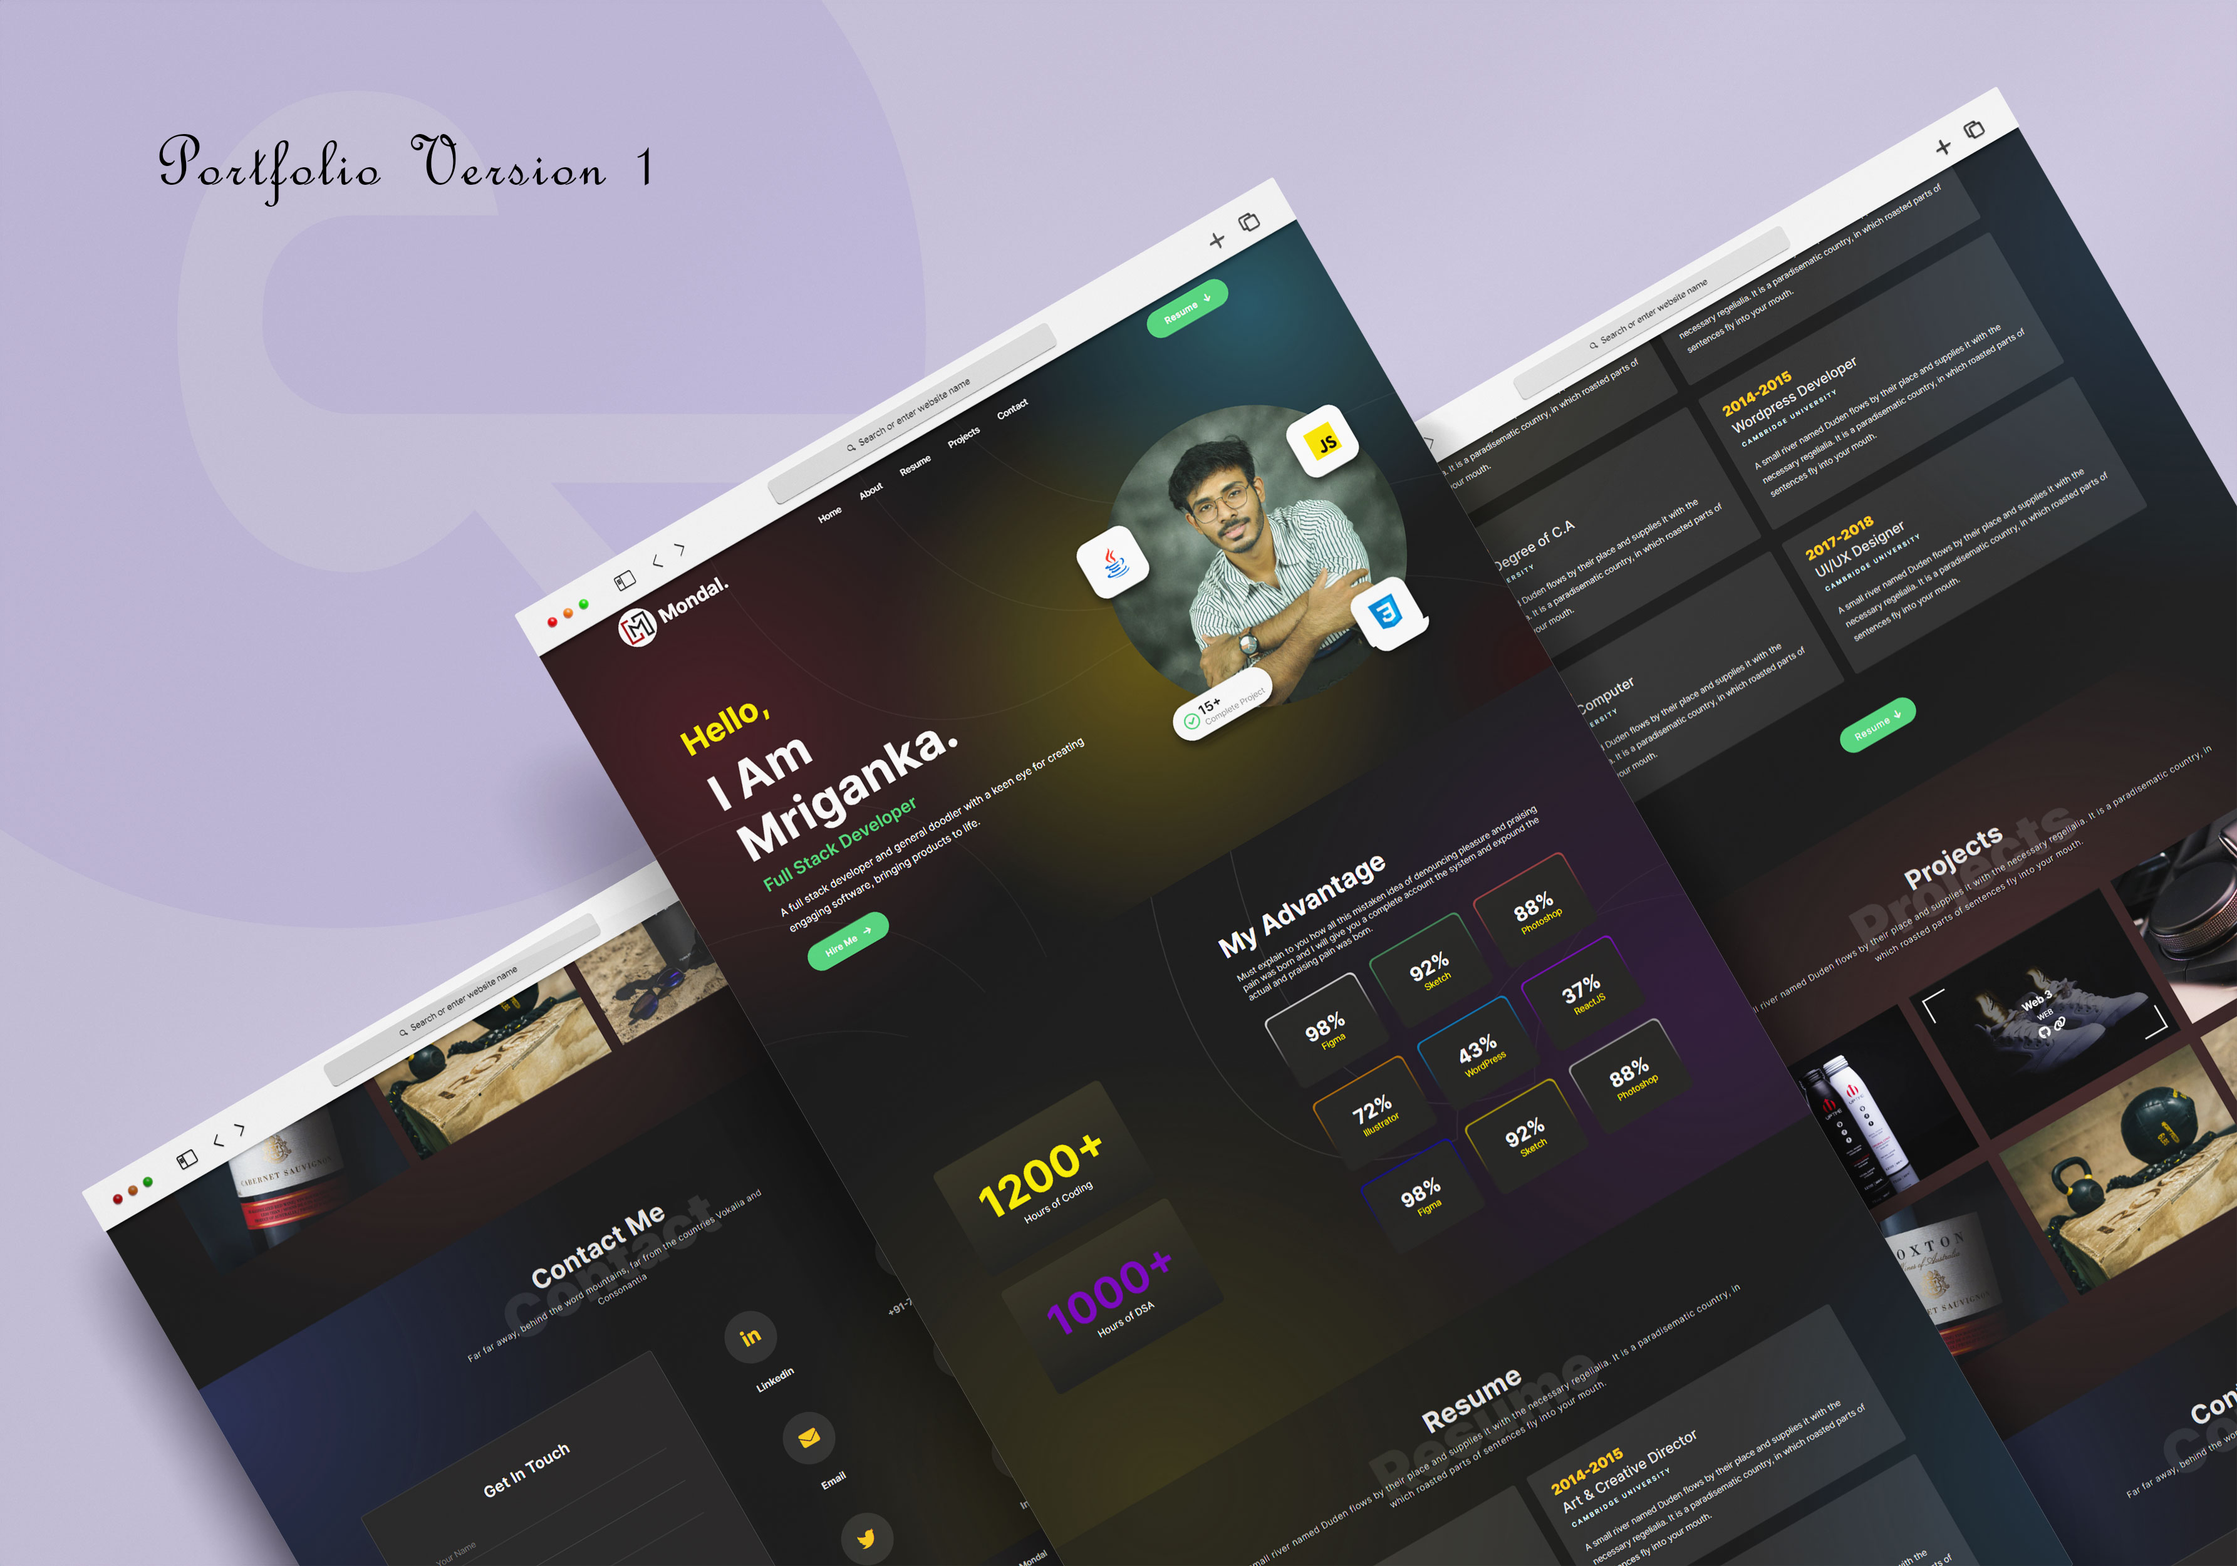
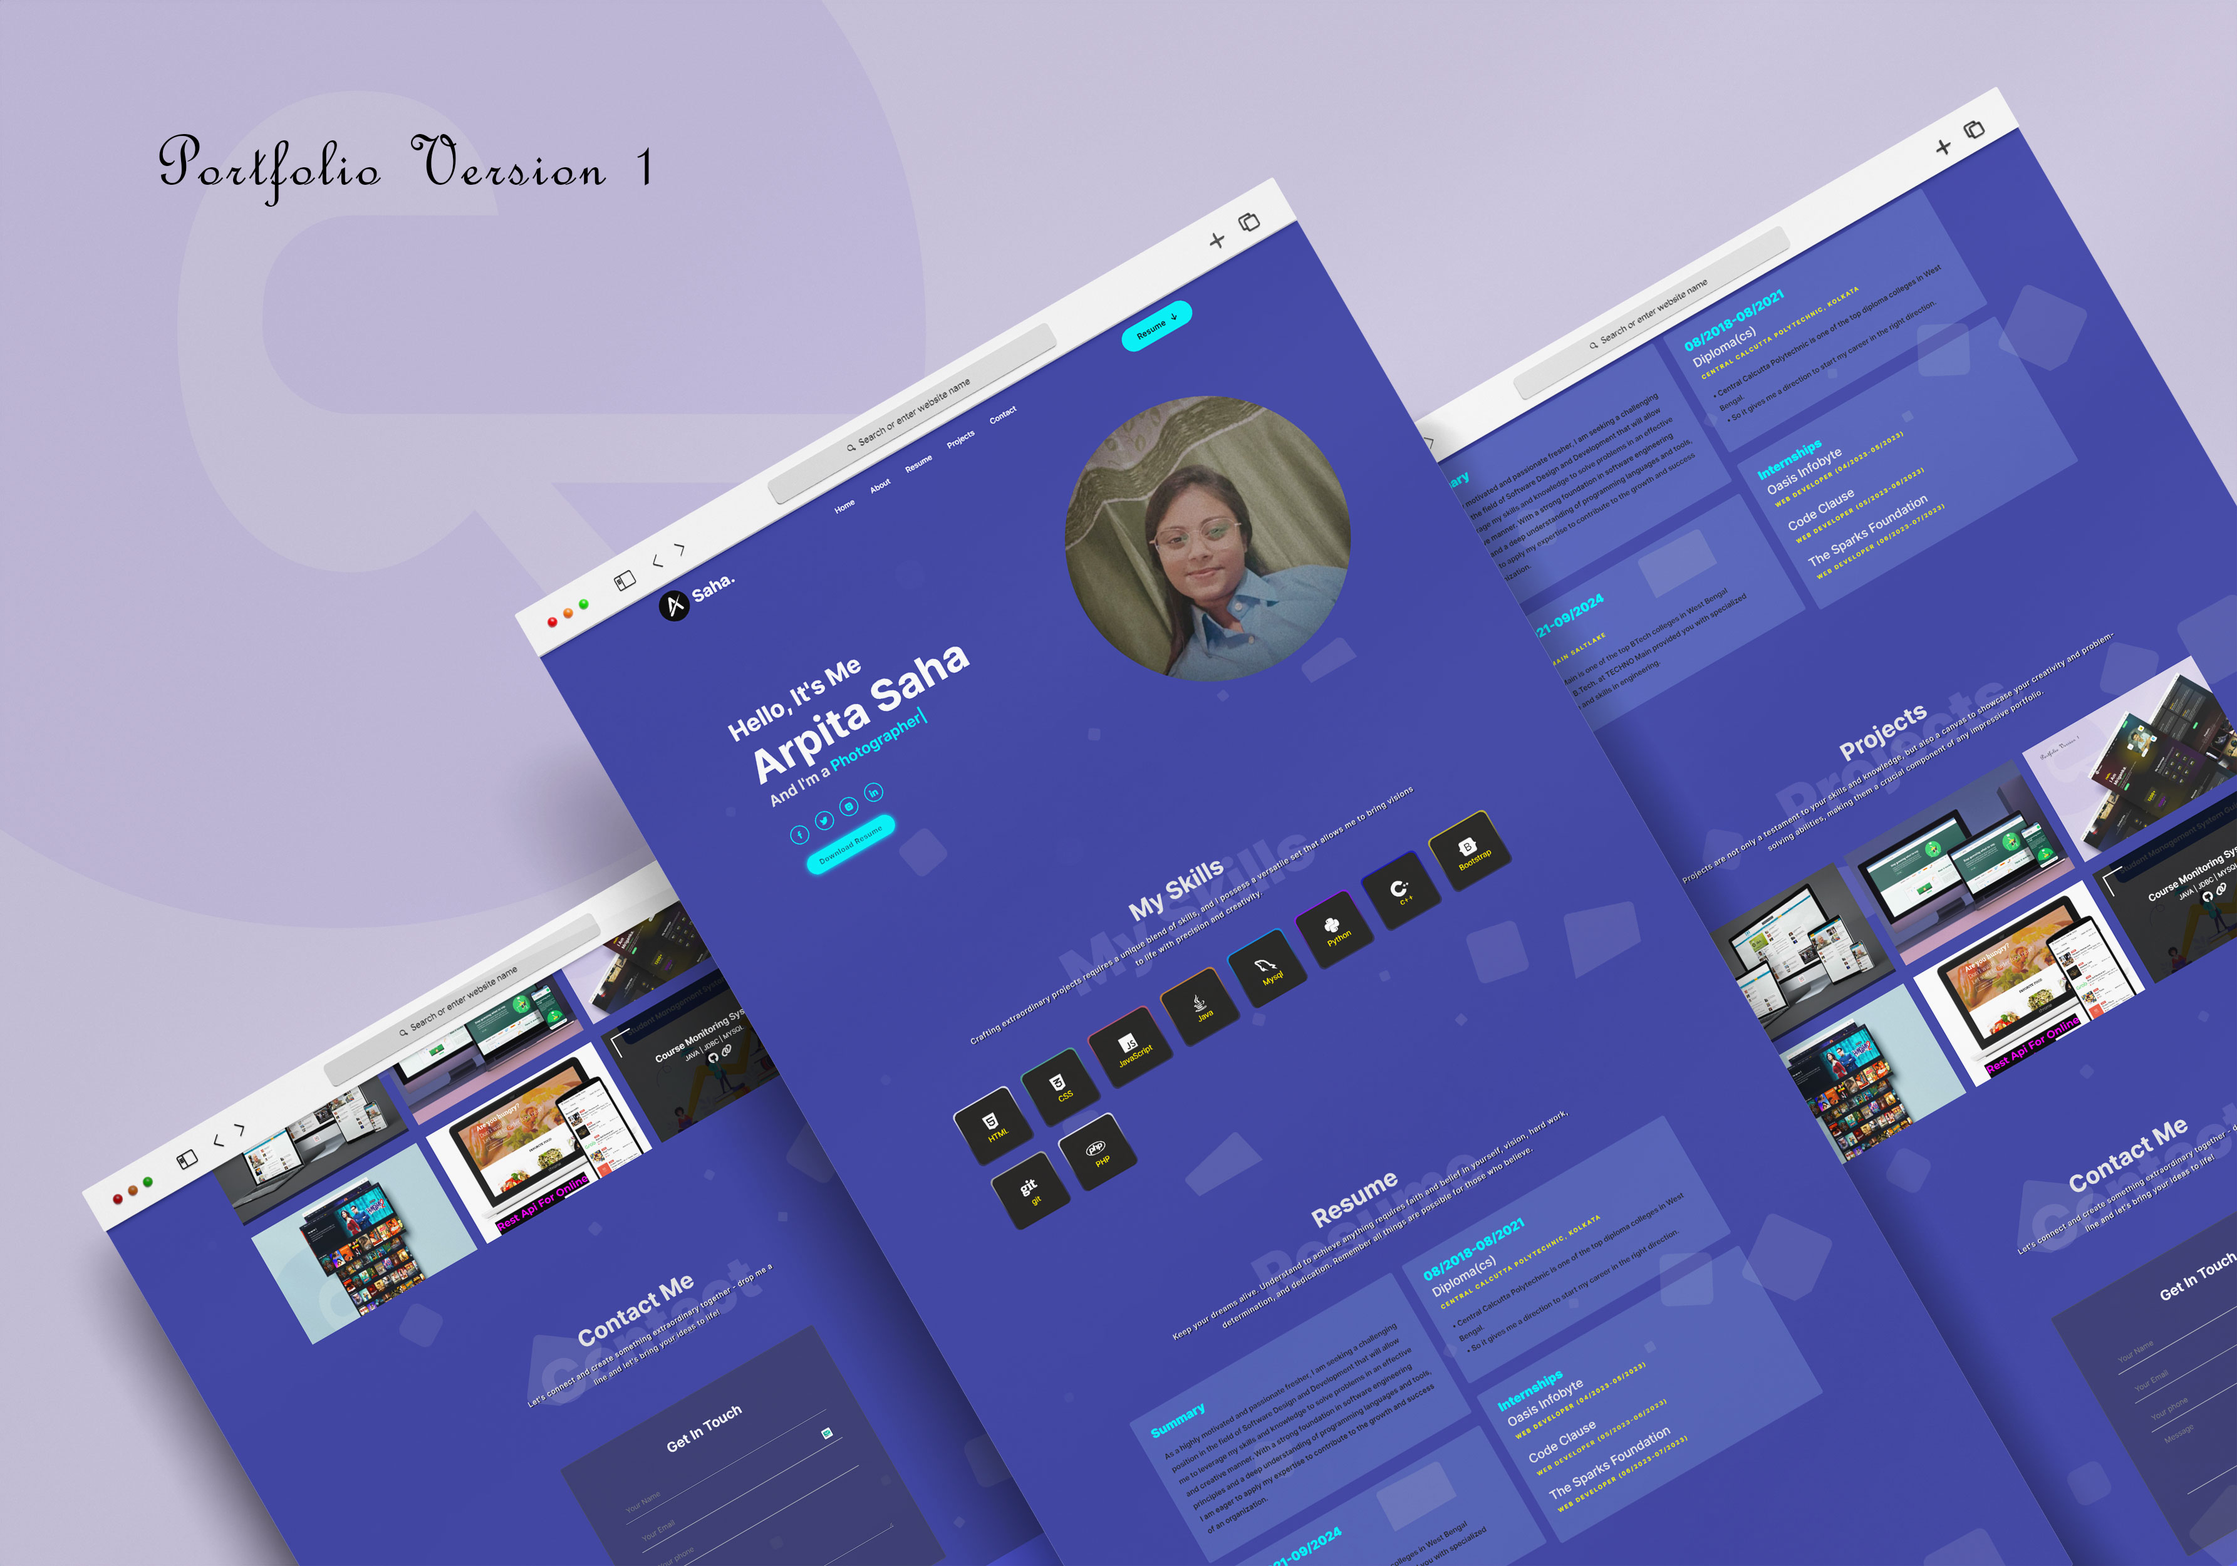
Add files via upload

diff --git a/index.html b/index.html
@@ -111,10 +111,11 @@
                            <h5>And I'm a <span id="multiple-text"></span></h5>
                         </divclass=>
                         <div class="social-media">
-                           <a href="#" style="--i:7;" ><i class='bx bxl-facebook'></i></a>
+                           <a href="https://github.com/Arpita0906" style="--i:7;" ><i
+                              class="fa-brands fa-github"></i></a>
                            <a href="#" style="--i:8;"><i class='bx bxl-twitter' ></i></a>
-                           <a href="#" style="--i:9;"><i class='bx bxl-instagram-alt' ></i></a>
-                           <a href="#" style="--i:10;"><i class='bx bxl-linkedin' ></i></a>
+                           <a href="https://www.instagram.com/iam_arpitasaha/" style="--i:9;"><i class='bx bxl-instagram-alt' ></i></a>
+                           <a href="https://www.linkedin.com/in/saharpita/" style="--i:10;"><i class='bx bxl-linkedin' ></i></a>
                        </div>
                         <div class="clearfix"></div>
                         <div class="slide-btn"><a href="https://drive.google.com/file/d/19QmrmQ_v85AdY3-lS754RRM9J9aKvFH4/view?usp=sharing" class="btn" download>Download Resume</a>
@@ -227,20 +228,14 @@
                   <span class="date">Summary</span>
                   <h2></h2>
                   <span class="position"></span>
-                  <p class="mt-4">Passionate full-stack developer certified from Masai. 1200 hours of
-                     hands-on experience to develop many websites/applications. Have a
-                     wide range of front-end and back-end skills like HTML, CSS, JAVA, and
-                     JS. Build 5+ projects from scratch. Solved more than 400 data structure
-                     questions
+                  <p class="mt-4">As a highly motivated and passionate fresher, I am seeking a challenging position in the field of Software Design and Development that will allow me to leverage my skills and knowledge to solve problems in an effective and creative manner. With a strong foundation in software engineering principles and a deep understanding of programming languages and tools, I am eager to apply my expertise to contribute to the growth and success of an organization.
                   </p>
                </div>
                <div class="resume-wrap ftco-animate fadeInUp ftco-animated">
                   <span class="date">09/2021-09/2024</span>
                   <h2>BTech</h2>
                   <span class="position">TECHNO MAIN SALTLAKE</span>
-                  <p class="mt-4">• Now I am in my second year of BBA.<br>• I decided to pursue this degree because it's
-                     an online degree designed for working
-                     professionals.<br>• So I can do a job along with studying.
+                  <p class="mt-4">• Techno Main is one of the top BTech colleges in West Bengal<br>• Studying B.Tech. at TECHNO Main provided you with specialized knowledge and skills in engineering.
                   </p>
                </div>
             </div>
@@ -252,17 +247,22 @@
                   <span class="position">Central Calcutta Polytechnic, Kolkata</span>
                   <p class="mt-4">• Central Calcutta Polytechnic is one of the top diploma colleges in West Bengal.<br>•
                      So it gives me a direction to start my
-                     career in the right direction.<br>• But because of the lockdown maximum of my college life was
-                     spent at home.
+                     career in the right direction.
                   </p>
                </div>
                <div class="resume-wrap ftco-animate fadeInUp ftco-animated">
-                  <span class="date">Internship</span>
-                  <h2>Selected in Infosys</h2>
-                  <span class="position">as a oe </span>
-                  <p class="mt-4">• After my diploma, I applied for Infosys off-campus drive, they selected me for the
-                     operation executive role.
-                  </p>
+                  <span class="date">Internships</span>
+                  <h2>Oasis Infobyte</h2>
+                  <span class="position">Web Developer (04/2023-05/2023) </span>
+                  <p class="mt-4"> </p>
+                  <!-- <span></span> -->
+                  <h2>Code Clause</h2>
+                  <span class="position">Web Developer (05/2023-06/2023) </span>
+                  <p class="mt-4"> </p>
+                  <!-- <span></span> -->
+                  <h2>The Sparks Foundation</h2>
+                  <span class="position">Web Developer (06/2023-07/2023) </span>
+                  <p class="mt-4"> </p>
                </div>
             </div>
          </div>
@@ -282,14 +282,14 @@
             <div class="col-lg-4 col-md-6 pb-2 pt-2 portfolio-item filter-app">
                <div class="portfolio-wrap"> <img src="./image/DH.jpg" class="img-fluid" alt="">
                   <div class="portfolio-info">
-                     <h4>Deccan Herald Clone</h4>
+                     <h4>Kolkata Travels Landing Page</h4>
                      <p>HTML | CSS | JS</p>
                      <div class="portfolio-links">
-                        <a target="_blank" href="https://github.com/Dev-Mriganka/Deccan-Herald"
+                        <a target="_blank" href="https://github.com/Arpita0906/Kolkata-Travels-Landing-Page"
                            class="portfolio-lightbox">
                            <i class="fa-brands fa-github"></i>
                         </a>
-                        <a target="_blank" href="https://deccan-herald.netlify.app"><i class="fa-solid fa-link"></i>
+                        <a target="_blank" href="https://arpita0906.github.io/Kolkata-Travels-Landing-Page/"><i class="fa-solid fa-link"></i>
                         </a>
                      </div>
                   </div>
@@ -298,13 +298,13 @@
             <div class="col-lg-4 col-md-6 pb-2 pt-2 portfolio-item filter-web">
                <div class="portfolio-wrap"> <img src="./image/lately.jpg" class="img-fluid" alt="">
                   <div class="portfolio-info">
-                     <h4>Lately.ai Clone</h4>
+                     <h4>Time Sheet Calculator</h4>
                      <p>HTML | CSS | JS</p>
                      <div class="portfolio-links">
-                        <a target="_blank" href="https://github.com/Dev-Mriganka/Lately.ai" class="portfolio-lightbox" title="Web 3">
+                        <a target="_blank" href="https://github.com/Arpita0906/Time-Sheet-Calculator" class="portfolio-lightbox" title="Web 3">
                            <i class="fa-brands fa-github"></i>
                         </a>
-                        <a target="_blank" href="https://lately.netlify.app" class="portfolio-details-lightbox">
+                        <a target="_blank" href="https://arpita0906.github.io/Time-Sheet-Calculator/" class="portfolio-details-lightbox">
                            <i class="fa-solid fa-link"></i>
                         </a>
                      </div>
@@ -317,9 +317,9 @@
                      <h4>Portfolio V1</h4>
                      <p>HTML | CSS | JS</p>
                      <div class="portfolio-links"> <a target="_blank"
-                           href="https://github.com/Dev-Mriganka/Dev-Mriganka.github.io"><i
+                           href="https://github.com/Arpita0906/Arpita0906.github.io"><i
                               class="fa-brands fa-github"></i></a> <a target="_blank"
-                           href="https://dev-mriganka.github.io/" class="portfolio-details-lightbox"><i
+                           href="https://Arpita0906.github.io/" class="portfolio-details-lightbox"><i
                               class="fa-solid fa-link"></i></a></div>
                   </div>
                </div>
@@ -329,12 +329,12 @@
                      src="./image/HS.jpg"
                      class="img-fluid" alt="">
                   <div class="portfolio-info">
-                     <h4>Movie App (Hotstar clone)</h4>
-                     <p>HTML | CSS | JS</p>
+                     <h4>Railway Commodity Reservation</h4>
+                     <p>HTML | CSS | JS | php</p>
                      <div class="portfolio-links"> <a target="_blank"
-                           href="https://github.com/Dev-Mriganka/Movie-App-Hotstar-Clone"
+                           href="https://github.com/Arpita0906/Online-Railway-Commodity-Reservation"
                            data-gallery="portfolioGallery" class="portfolio-lightbox" title="App 2"><i
-                              class="fa-brands fa-github"></i></a> <a target="_blank" href="https://movie-app-hotstar.netlify.app/" data-gallery="portfolioDetailsGallery"
+                              class="fa-brands fa-github"></i></a> <a target="_blank" href="#" data-gallery="portfolioDetailsGallery"
                            data-glightbox="type: external" class="portfolio-details-lightbox"
                            title="Portfolio Details"><i class="fa-solid fa-link"></i></a></div>
                   </div>
@@ -342,13 +342,13 @@
             </div>
             <div class="col-lg-4 col-md-6 pb-2 pt-2 portfolio-item filter-web">
                <div class="portfolio-wrap"> <img
-                     src="./image/Screenshot.png"
+                     src="./image/insurance.jpg"
                      class="img-fluid" alt="">
                   <div class="portfolio-info">
-                     <h4>Online Food Delivery Syetem</h4>
-                     <p>JAVA | Spring Boot | MySql</p>
-                     <div class="portfolio-links"> <a target="_blank" href="https://github.com/Dev-Mriganka/Online-Food-Delivery-Syetem" data-gallery="portfolioGallery"
-                           class="portfolio-lightbox" title="Web 2"><i class="fa-brands fa-github"></i></a> <a target="_blank" href="https://drive.google.com/drive/folders/1Ps0JcOzmOt8kQXC_j4MD6MvlMTVUh4mK?usp=share_link"
+                     <h4>Medical Insurance Cost Predictor</h4>
+                     <p>HTML | CSS | Python</p>
+                     <div class="portfolio-links"> <a target="_blank" href="https://github.com/Arpita0906/Medical_insurance_cost_predictor" data-gallery="portfolioGallery"
+                           class="portfolio-lightbox" title="Web 2"><i class="fa-brands fa-github"></i></a> <a target="_blank" href="#"
                            data-gallery="portfolioDetailsGallery" data-glightbox="type: external"
                            class="portfolio-details-lightbox" title="Portfolio Details"><i
                               class="fa-solid fa-link"></i></a></div>
@@ -357,12 +357,12 @@
             </div>
             <div class="col-lg-4 col-md-6 pb-2 pt-2 portfolio-item filter-app">
                <div class="portfolio-wrap"> <img
-                     src="./image/Student-Management-System.png"
+                     src="./image/temp.jpeg"
                      class="img-fluid" alt="">
                   <div class="portfolio-info">
-                     <h4>Course Monitoring System</h4>
-                     <p>JAVA | JDBC | MySql</p>
-                     <div class="portfolio-links"> <a target="_blank" href="https://github.com/Dev-Mriganka/Course-Monitoring-System" data-gallery="portfolioGallery"
+                     <h4>Temperature Converter</h4>
+                     <p>HTML | CSS | JS</p>
+                     <div class="portfolio-links"> <a target="_blank" href="#" data-gallery="portfolioGallery"
                            class="portfolio-lightbox" title="App 3"><i class="fa-brands fa-github"></i></a> <a href="#"
                            data-gallery="portfolioDetailsGallery" data-glightbox="type: external"
                            class="portfolio-details-lightbox" title="Portfolio Details"><i
@@ -469,13 +469,13 @@
             <div class=" col-lg-6 social-icons text-center">
                <div>
                   <ul class="social">
-                     <li><a target="_blank" href="https://www.facebook.com/wrick.mondal.90"><i
-                              class="fa-brands fa-facebook-f"></i></a></li>
+                     <!-- <li><a target="_blank" href="https://www.facebook.com/wrick.mondal.90"><i
+                              class="fa-brands fa-facebook-f"></i></a></li> -->
                      <li><a target="_blank" href="https://twitter.com/mriganka_18"><i
                               class="fa-brands fa-twitter"></i></i></a></li>
-                     <li><a target="_blank" href="https://www.linkedin.com/in/dev-mriganka/"><i
+                     <li><a target="_blank" href="https://www.linkedin.com/in/saharpita/"><i
                               class="fa-brands fa-linkedin-in"></i></a></li>
-                     <li><a target="_blank" href="https://github.com/Dev-Mriganka"><i
+                     <li><a target="_blank" href="https://github.com/Arpita0906"><i
                               class="fa-brands fa-github"></i></a></li>
                      <li><a target="_blank" href="https://discord.gg/24A9knG"><i class="fa-brands fa-discord"></i></a>
                      </li>
@@ -483,7 +483,7 @@
                </div>
             </div>
             <div class="col-lg-6 wow fadeInUp" style="visibility: visible;">
-               <p class="mb-0 text-center text-lg-end">Designed by <a class="fw-600" href="#">Arpita Saha</a></p>
+               <p class="mb-0 text-center text-lg-end">Designed by <a class="fw-600" href="#">Arpita Saha ❤</a></p>
             </div>
          </div>
       </div>
